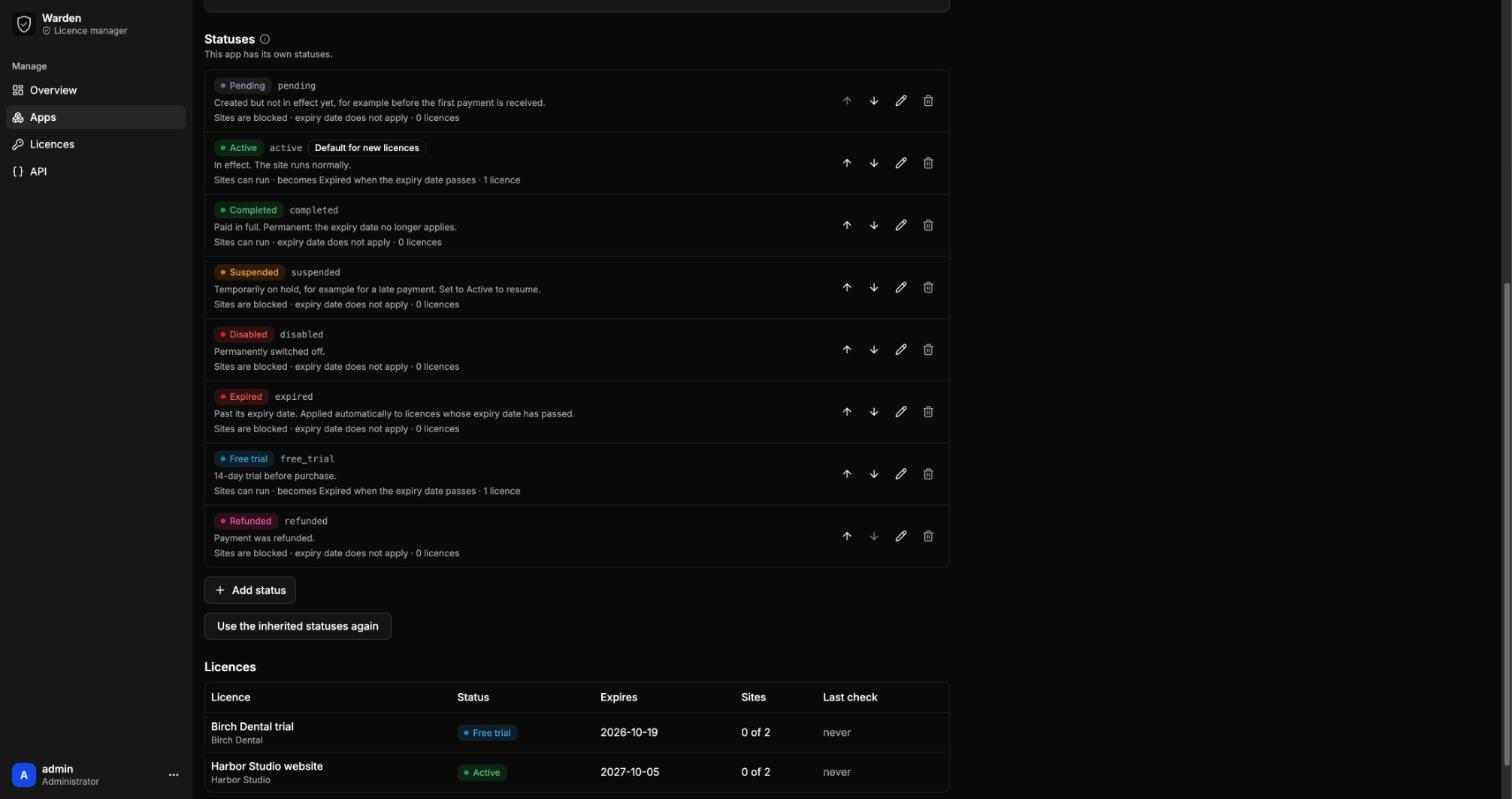
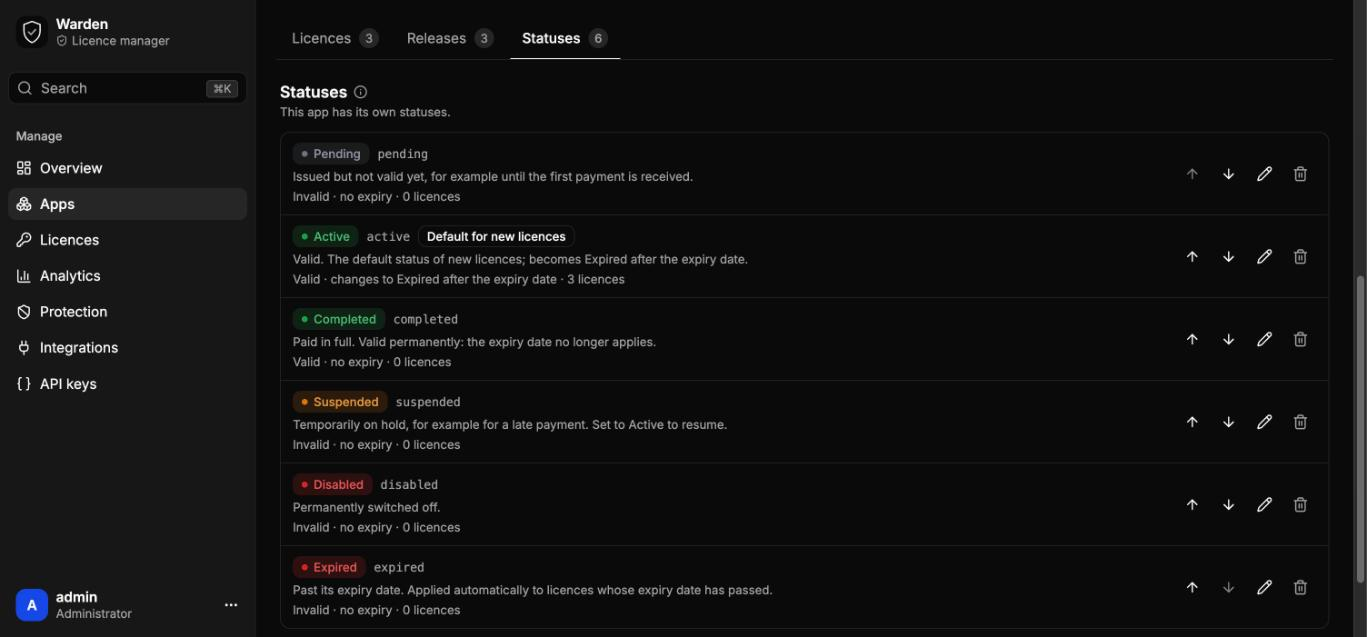
Retake every dashboard screenshot with the current interface, add screenshots to the guides, and use valid and invalid in the built-in status descriptions

diff --git a/app/lib/statuses.ts b/app/lib/statuses.ts
@@ -118,9 +118,9 @@ export function validateStatusSet(set: StatusSet): string | null {
 
 /** The statuses a new set starts with. Mirrors the rows seeded by migration 0006. */
 export const DEFAULT_STATUSES: StatusSet = [
-  { key: "pending", label: "Pending", description: "Created but not in effect yet, for example before the first payment is received.", color: "#6b7280", grants_access: false, on_expiry: null, check_message: "This licence is not active yet.", is_default: false, position: 1 },
-  { key: "active", label: "Active", description: "In effect. The site runs normally.", color: "#16a34a", grants_access: true, on_expiry: "expired", check_message: "", is_default: true, position: 2 },
-  { key: "completed", label: "Completed", description: "Paid in full. Permanent: the expiry date no longer applies.", color: "#16a34a", grants_access: true, on_expiry: null, check_message: "", is_default: false, position: 3 },
+  { key: "pending", label: "Pending", description: "Issued but not valid yet, for example until the first payment is received.", color: "#6b7280", grants_access: false, on_expiry: null, check_message: "This licence is not active yet.", is_default: false, position: 1 },
+  { key: "active", label: "Active", description: "Valid. The default status of new licences; becomes Expired after the expiry date.", color: "#16a34a", grants_access: true, on_expiry: "expired", check_message: "", is_default: true, position: 2 },
+  { key: "completed", label: "Completed", description: "Paid in full. Valid permanently: the expiry date no longer applies.", color: "#16a34a", grants_access: true, on_expiry: null, check_message: "", is_default: false, position: 3 },
   { key: "suspended", label: "Suspended", description: "Temporarily on hold, for example for a late payment. Set to Active to resume.", color: "#d97706", grants_access: false, on_expiry: null, check_message: "This licence is suspended.", is_default: false, position: 4 },
   { key: "disabled", label: "Disabled", description: "Permanently switched off.", color: "#dc2626", grants_access: false, on_expiry: null, check_message: "This licence has been disabled.", is_default: false, position: 5 },
   { key: "expired", label: "Expired", description: "Past its expiry date. Applied automatically to licences whose expiry date has passed.", color: "#dc2626", grants_access: false, on_expiry: null, check_message: "This licence has expired.", is_default: false, position: 6 },

diff --git a/app/components/status-section.tsx b/app/components/status-section.tsx
@@ -10,7 +10,7 @@ import { findStatus, type StatusSet } from "#/lib/statuses"
 type Props = {
   /** What the statuses belong to, used in the text: "app" or "licence". */
   owner: "app" | "licence"
-  /** The statuses in effect for the owner. */
+  /** The statuses that apply to the owner. */
   statuses: StatusSet
   /** The statuses the owner falls back to when it has none of its own: the built-in defaults. */
   fallback: StatusSet

diff --git a/README.md b/README.md
@@ -54,7 +54,7 @@ Warden **creates and manages** licences. **Enforcement lives in the site's code*
 - **Overview** with a *Needs attention* queue: licences expiring soon (extend them in one click) and valid licences with no recent check, plus apps with outdated sites
 - **Quick search** (Ctrl+K or Cmd+K) across licences, customers, keys, site domains and apps
 - **Licence list** with saved views in the address (valid, invalid, expiring, no recent check), filters, sorting and **CSV export**
-- **Files per licence** (stored in R2), each with a release rule: the licence statuses in which it can be downloaded. Use it to ship updates while a licence is in effect, to release a final build when the client has paid in full, or to serve a notice while a licence is suspended ([docs/files.md](docs/files.md))
+- **Files per licence** (stored in R2), each with a release rule: the licence statuses in which it can be downloaded. Use it to ship updates while a licence is valid, to release a final build when the client has paid in full, or to serve a notice while a licence is suspended ([docs/files.md](docs/files.md))
 - **Extend expiry** in one click (+30 days, +90 days, +1 year) and **regenerate key**
 - **API** with scoped keys, idempotent create, renew, status, search and paging, plus an OpenAPI description
 - Single admin login from Worker secrets, no third-party services, runs on the Workers and D1 free plans
@@ -62,17 +62,21 @@ Warden **creates and manages** licences. **Enforcement lives in the site's code*
 | | |
 |---|---|
 | ![Apps](docs/screenshots/apps.jpg) | ![App page](docs/screenshots/app.jpg) |
-| Apps with licence counts, sites, latest release and sites behind it | An app: the versions its sites run, and its releases |
+| Apps with licence counts, valid licences, sites and outdated sites | An app: licences, sites, latest release and checks of the last 30 days |
+| ![Releases](docs/screenshots/releases.jpg) | ![Edit a release](docs/screenshots/edit-file.jpg) |
+| Releases of an app: latest, beta and withdrawn | Editing a release: version, channel, release notes and availability |
 | ![Licences](docs/screenshots/licences.jpg) | ![Licence page](docs/screenshots/licence.jpg) |
-| Licences of all apps, with quick views, filters and sorting | A licence: what sites see, expiry, sites, last check |
-| ![Sites and files](docs/screenshots/sites-and-files.jpg) | ![Edit a file's release rule](docs/screenshots/edit-file.jpg) |
-| Registered sites and the version each one runs | Changing the statuses a file is available in |
+| Licences of all apps, with views, filters and sorting | A licence: check result, expiry, sites and last check |
+| ![Sites](docs/screenshots/sites-and-files.jpg) | ![Analytics](docs/screenshots/analytics.jpg) |
+| Registered sites, the version each one runs and its address | Analytics: valid and invalid checks per day |
 | ![App statuses](docs/screenshots/app-statuses.jpg) | ![Edit a status](docs/screenshots/edit-status.jpg) |
-| An app with its own statuses | Editing a status: colour picker, sites, expiry rule, message |
-| ![Creating an app](docs/screenshots/new-app.jpg) | ![Analytics](docs/screenshots/analytics.jpg) |
-| Statuses can be customised while creating an app or a licence | Analytics: valid and invalid checks per day |
-| ![Licence statuses](docs/screenshots/licence-statuses.jpg) | ![New licence under an app](docs/screenshots/new-licence.jpg) |
-| A standalone licence: default statuses, customisable (a licence in an app uses its app's) | Issuing a licence with the app's defaults |
+| An app with its own statuses | Editing a status: colour, expiry rule, valid status and message |
+| ![Protection](docs/screenshots/protection.jpg) | ![Integrations](docs/screenshots/integrations.jpg) |
+| Protection: blocking rules with threshold, time window and block duration | Integrations: connecting GitHub |
+| ![Creating an app](docs/screenshots/new-app.jpg) | ![New licence under an app](docs/screenshots/new-licence.jpg) |
+| Creating an app with defaults for new licences | Issuing a licence with the app's defaults |
+| ![Licence statuses](docs/screenshots/licence-statuses.jpg) | ![API keys](docs/screenshots/api.jpg) |
+| A standalone licence: default statuses, customisable | API keys with their scope |
 
 ## The check URL
 

diff --git a/Security.md b/Security.md
@@ -20,7 +20,7 @@ Supported versions: only the latest release (there is no 1.0 yet, so none is lon
 | API keys | `wk_` plus 40 uniformly random letters and digits. Only a SHA-256 hash is stored; the key is shown once. Three scopes (`read`, `manage`, `full`), revocable at any time. Keys act as the admin account, so give each app its own key with the least access it needs. |
 | Licence keys | `WRD-` plus 20 random characters from a 30-symbol alphabet (about 98 bits), generated with the platform's secure random source. Unknown keys get a generic 404. |
 | Check responses | Signed: `X-Warden-Signature` is the HMAC-SHA256 of the body, keyed with the licence key. A site can verify a response is genuine and unmodified. |
-| File downloads | Files live in a private R2 bucket with no public URL; the Worker streams them only after checking the licence (the licence status against the file's release statuses, and the domain when the file requires it). Every download and refusal is logged. Names are sanitised and sent as attachments with `X-Content-Type-Options: nosniff` and `Content-Security-Policy: default-src 'none'; sandbox`, so an uploaded file can never run as a page on the dashboard's origin. Each file's SHA-256 is computed during the upload and sent with the release and as `X-Warden-Sha256`, so an updater can check the package arrived intact. |
+| File downloads | Files live in a private R2 bucket with no public URL; the Worker streams them only after checking the licence (the licence status against the file's release statuses, and the domain when the file requires it). Every download and denied download is logged. Names are sanitised and sent as attachments with `X-Content-Type-Options: nosniff` and `Content-Security-Policy: default-src 'none'; sandbox`, so an uploaded file can never run as a page on the dashboard's origin. Each file's SHA-256 is computed during the upload and sent with the release and as `X-Warden-Sha256`, so an updater can check the package arrived intact. |
 | Update offers | The `update` block is part of the signed check response, so a site can trust the version, checksum and download link it is offered as much as the status. |
 | CSV export | Cells that a spreadsheet would read as a formula (starting with `=`, `+`, `-`, `@`) are prefixed with an apostrophe, so opening an export cannot run anything. |
 | Database | Cloudflare D1, queries use bound parameters throughout. Check history older than 90 days is deleted daily. |

diff --git a/docs/repositories.md b/docs/repositories.md
@@ -2,6 +2,8 @@
 
 An app or a licence can be connected to a GitHub repository. Connect GitHub once under **Integrations**, then pick a repository from a list. When you push a version tag, Warden downloads the repository at that tag as a zip, renames its top-level folder and publishes it as a release, exactly as if you had uploaded the file yourself. Sites that check with their version are then offered the update.
 
+![Connecting GitHub on the Integrations page](screenshots/integrations.jpg)
+
 Nothing is built: the repository is published as it is. This suits themes and plugins whose repository is the package. A project that needs a build step can upload its build with the API from its pipeline instead (see [releases.md](releases.md)).
 
 ## Connecting GitHub (once)
@@ -14,7 +16,7 @@ Open **Integrations**, GitHub, **Create GitHub App**. Warden creates a GitHub Ap
 
 The app's webhook points at `https://<your-worker>/hooks/github-app`, one address for every repository, and is signed with a secret GitHub generated for the app. Nothing has to be copied by hand. Warden must be reachable at its public address for the app's webhook; GitHub does not deliver to `localhost`.
 
-The app's private key and webhook secret are stored in your D1 database. Warden uses the key to request access tokens that last one hour and only read repository contents. *Remove from Warden* forgets the credentials (refused while repositories still use the app); delete the app on GitHub as well, under the app's settings, *Advanced*.
+The app's private key and webhook secret are stored in your D1 database. Warden uses the key to request access tokens that last one hour and only read repository contents. *Remove from Warden* forgets the credentials (not possible while repositories still use the app); delete the app on GitHub as well, under the app's settings, *Advanced*.
 
 ## Connecting a repository
 

diff --git a/docs/files.md b/docs/files.md
@@ -2,6 +2,8 @@
 
 Files can belong to a single licence, or to an **app** and be shared by every licence of that app ([apps.md](apps.md)). Each file has a **release rule**: the licence statuses in which it can be downloaded. Files are stored privately in R2 and served by the Worker only when the rule is met.
 
+![Editing a release and the statuses it is available in](screenshots/edit-file.jpg)
+
 A file with a **version** is a release: it is offered to sites as an update, with a channel, release notes and a checksum. See [releases.md](releases.md). A file without a version is an attachment.
 
 ## Release rule
@@ -60,7 +62,7 @@ Maximum file size is 100 MB (the Worker request body limit on the Free plan). De
 
 ## Example: a project paid in instalments
 
-1. Deliver the theme with the licence check built in ([checking.md](checking.md)). Upload each new build as a file released in **Active, Completed** so the site can fetch updates while the licence is in effect.
+1. Deliver the theme with the licence check built in ([checking.md](checking.md)). Upload each new build as a file released in **Active, Completed** so the site can fetch updates while the licence is valid.
 2. Build the final theme without the licence check and upload it released in **Completed** only, with the domain check off. It stays unavailable.
 3. When the last payment arrives, set the licence status to **Completed** (dashboard, or `POST /api/v1/licenses/{id}/status`, for example from a payment webhook). The final file becomes available and the licence stays valid indefinitely.
 4. Send the client the download link. Once the final theme is installed, the site no longer calls Warden.

diff --git a/docs/statuses.md b/docs/statuses.md
@@ -2,6 +2,8 @@
 
 Every licence has a **status**. The status decides what a site is told when it checks the licence, and which files it can download. Warden starts with a built-in set of statuses, and you can customise them **for an app** or **for a standalone licence**: rename them, change what they mean, remove the ones you do not need and add your own.
 
+![An app with its own statuses](screenshots/app-statuses.jpg)
+
 ## Where statuses come from
 
 | The licence is | It uses |
@@ -27,8 +29,8 @@ You can customise statuses **when you create** an app or a standalone licence: t
 
 | Status | Valid | Expiry date | Meaning |
 |---|---|---|---|
-| Pending | No | Does not apply | Created but not in effect yet, for example before the first payment |
-| Active | Yes | Becomes Expired | In effect. This is the default for new licences |
+| Pending | No | Does not apply | Issued but not valid yet, for example until the first payment |
+| Active | Yes | Becomes Expired | Valid. The default for new licences |
 | Completed | Yes | Does not apply | Paid in full. Permanent |
 | Suspended | No | Does not apply | Temporarily on hold, for example for a late payment |
 | Disabled | No | Does not apply | Permanently switched off |

diff --git a/docs/releases.md b/docs/releases.md
@@ -2,6 +2,8 @@
 
 Warden can deliver the updates of what you sell. A **release** is a file with a version. It is stored in R2 like any other file ([files.md](files.md)) and keeps the same release rule: the licence statuses in which it can be downloaded, and whether the site's domain must match. On top of that, a release has a channel, public release notes and a checksum, and the check endpoint tells each site whether a newer release is waiting for it.
 
+![Releases of an app: the latest stable release, a beta and a withdrawn release](screenshots/releases.jpg)
+
 A file **without** a version is an *attachment* (a manual, a notice). It can be downloaded but is never offered as an update.
 
 ## What a release has

diff --git a/CHANGELOG.md b/CHANGELOG.md
@@ -62,6 +62,7 @@ Not released yet: on the `develop` branch.
 
 ### Changed: terminology
 
+- The descriptions of the built-in statuses use the same terms: Pending is "not valid yet", Active and Completed are "valid"
 - Checks are described as **valid** or **invalid** throughout the dashboard, the API and the docs. The licence list views are now `?view=valid` and `?view=invalid` (`in_force` and `not_in_force` still work in bookmarked addresses)
 - API: `GET /stats` returns `valid` and `invalid`, and apps return `licenses_valid`. The earlier fields `in_force`, `not_in_force` and `licenses_in_force` are still returned as deprecated aliases and will be removed before 1.0
 

diff --git a/docs/analytics.md b/docs/analytics.md
@@ -2,6 +2,8 @@
 
 The **Analytics** page shows the licence traffic of the installation: the checks your customers' sites make and the downloads of your files, per day. It answers questions such as:
 
+![The Analytics page](screenshots/analytics.jpg)
+
 - Are sites still checking in, or did checks drop (sites offline, the check removed from their code)?
 - How many checks are invalid, and why: a suspended or expired licence, a domain that is not allowed, a site limit reached?
 - How many sites are active, and how many are new?

diff --git a/docs/apps.md b/docs/apps.md
@@ -2,6 +2,8 @@
 
 An **app** is a product you license to many customers, for example a plugin or a theme. Licences can belong to an app. A licence without an app is a **standalone** licence, for a single customer or a custom project.
 
+![An app page](screenshots/app.jpg)
+
 | | Standalone licence | Licence under an app |
 |---|---|---|
 | Starts with | The values you enter | The app's defaults (duration, status, maximum sites, public message) |

diff --git a/docs/api.md b/docs/api.md
@@ -2,6 +2,8 @@
 
 Base URL: `https://<your-worker>/api/v1`. JSON in, JSON out. A machine-readable description is served at `/api/v1/openapi.json` (no key needed).
 
+![API keys in the dashboard](screenshots/api.jpg)
+
 ## Authentication
 
 Create a key in the dashboard (**API** page). The key is shown once. Send it on every request:
